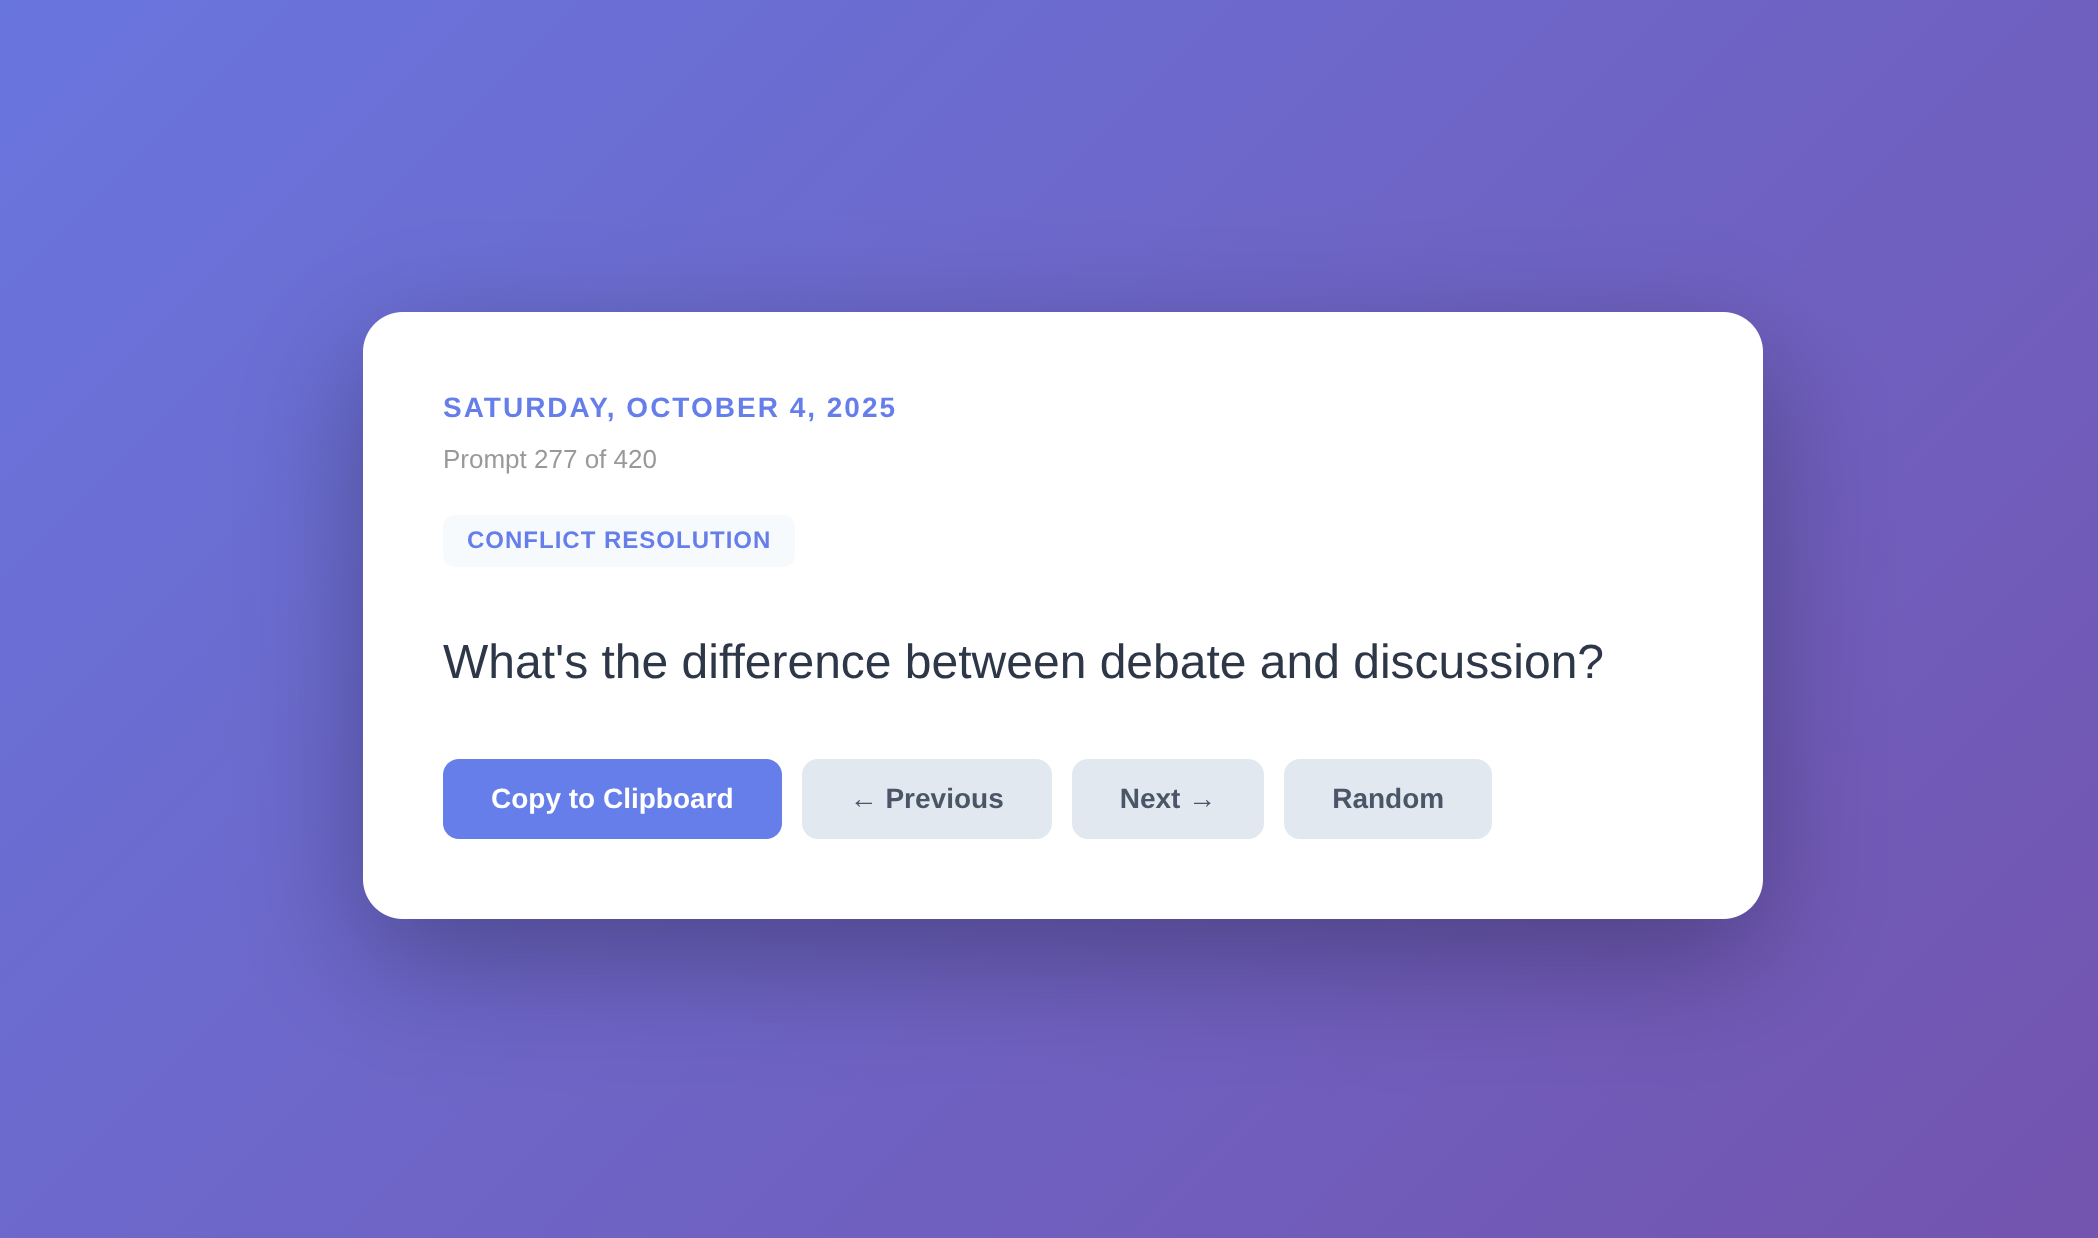
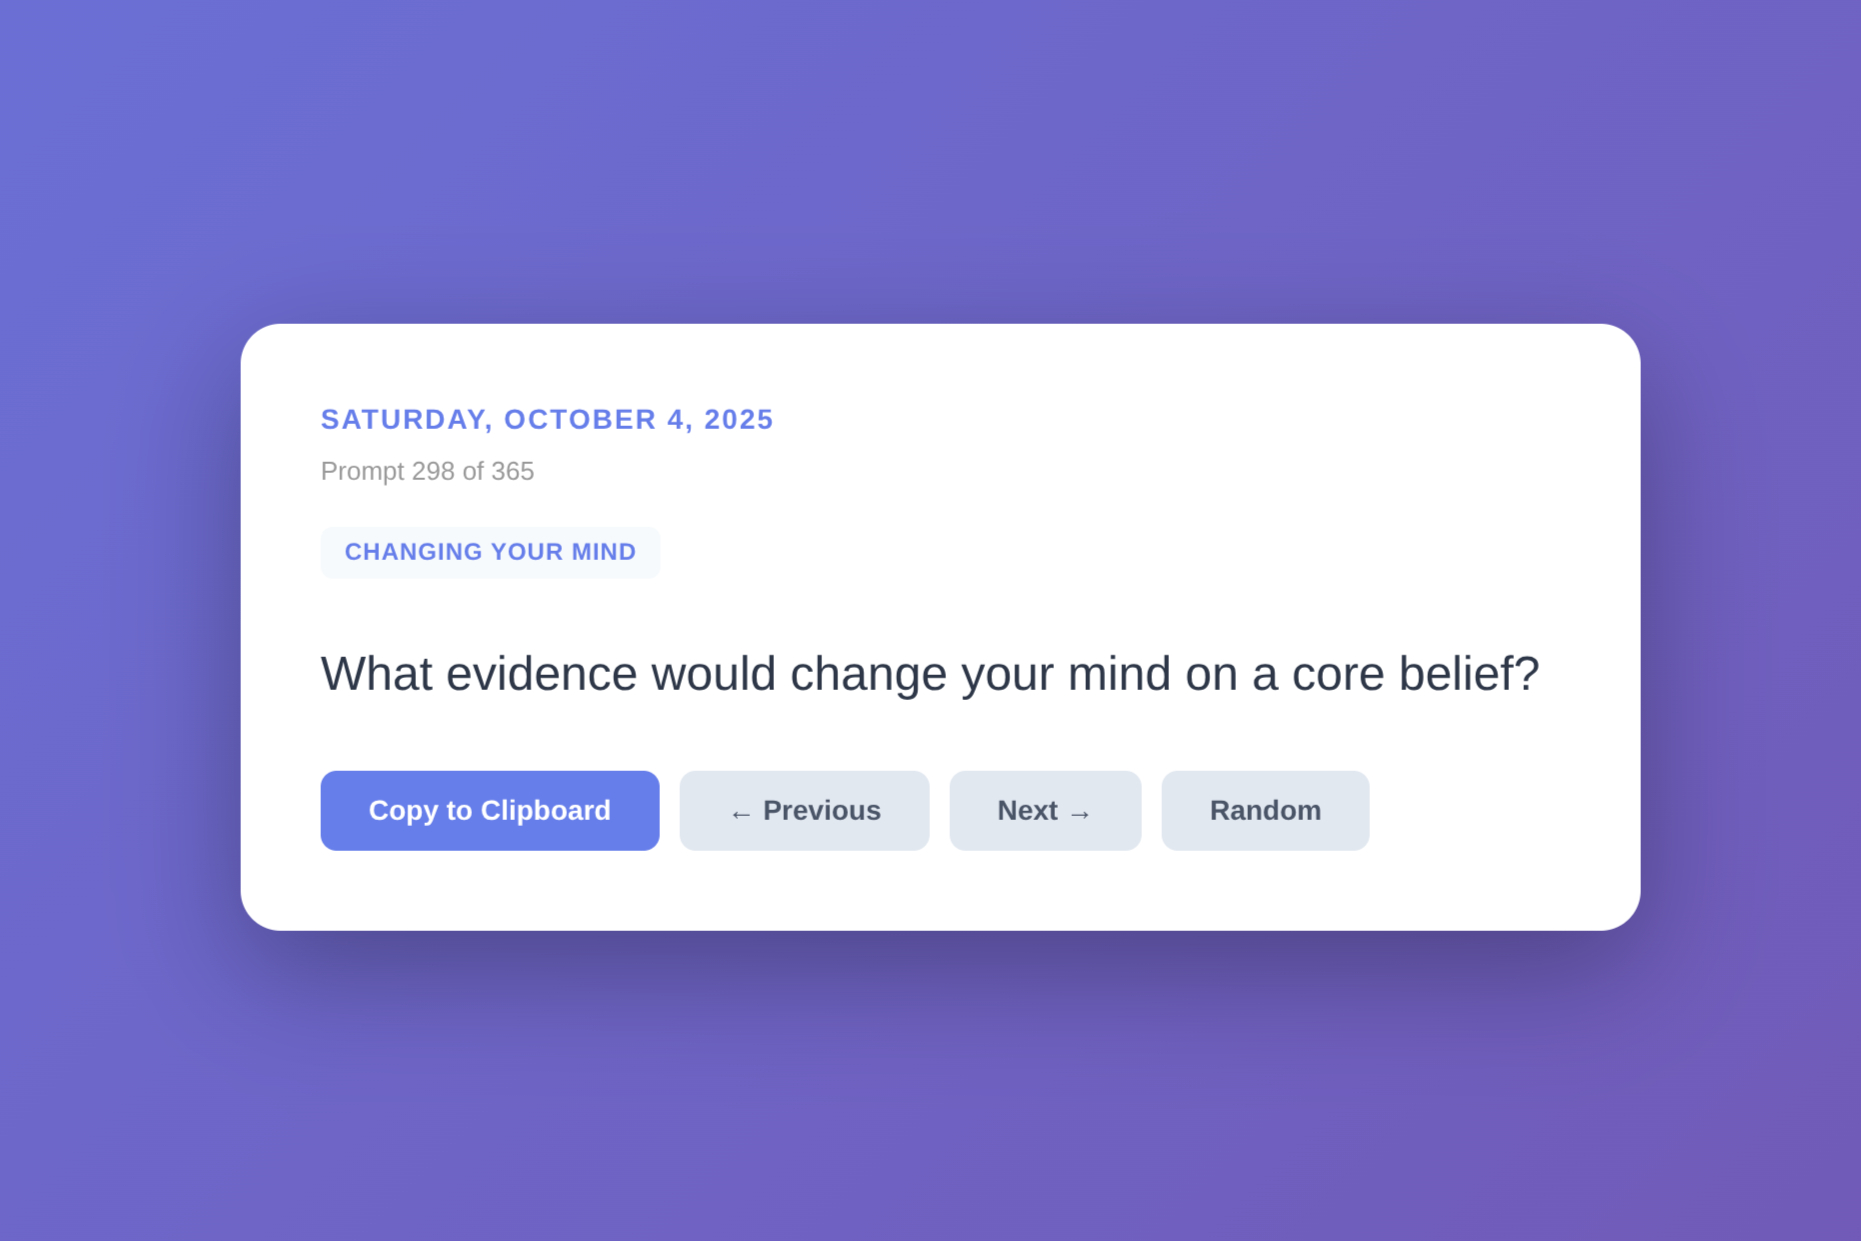
Update screenshot and correct title to singular
- Replace screenshot with properly cropped 1000x667 version
- Change title from "Daily Writing Prompts" to "Daily Writing Prompt"
- Better reflects single daily prompt experience

🤖 Generated with [Claude Code](https://claude.ai/code)

Changed region(s): [[0.0935, 0.2456, 0.9038, 0.7674]]

diff --git a/README.md b/README.md
@@ -1,4 +1,4 @@
-# Daily Writing Prompts
+# Daily Writing Prompt
 
 A single-file HTML app that provides one thought-provoking writing prompt each day. Designed for reflective, analytical, non-fiction writing practice.
 
